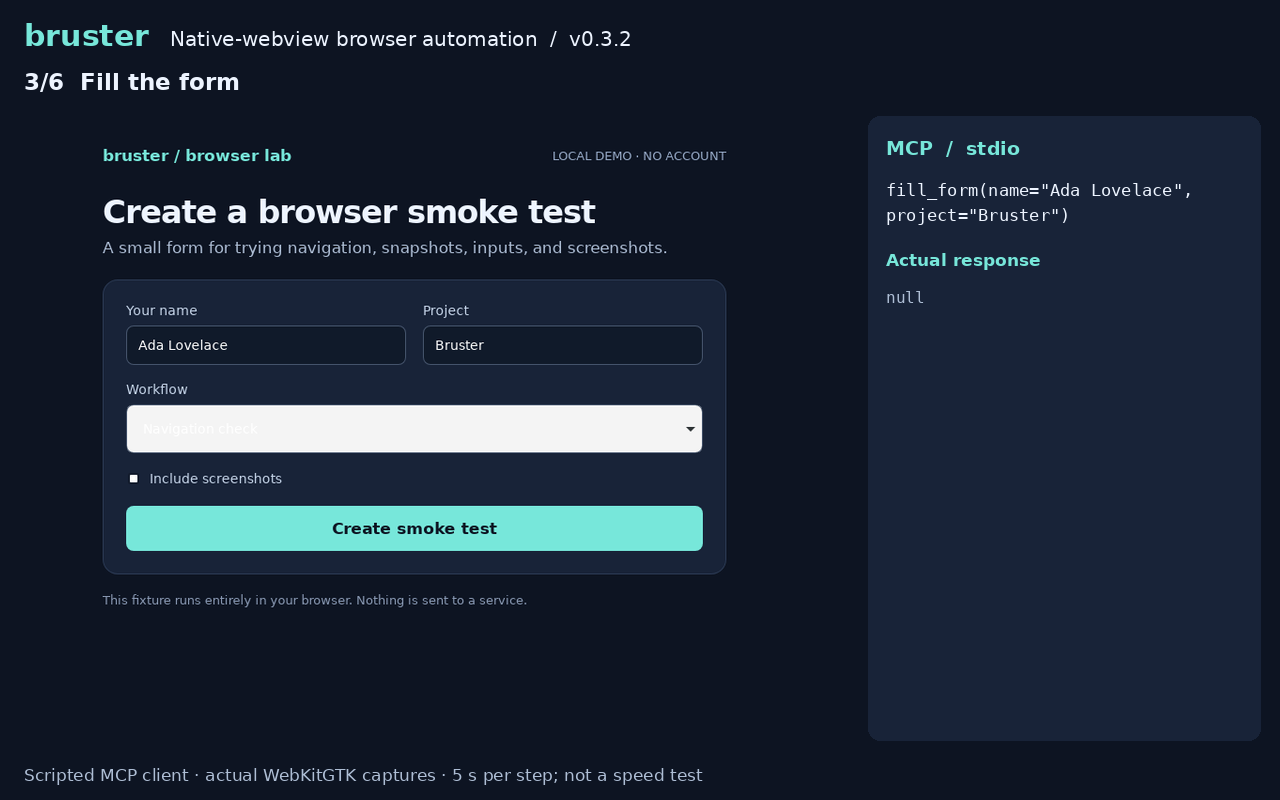
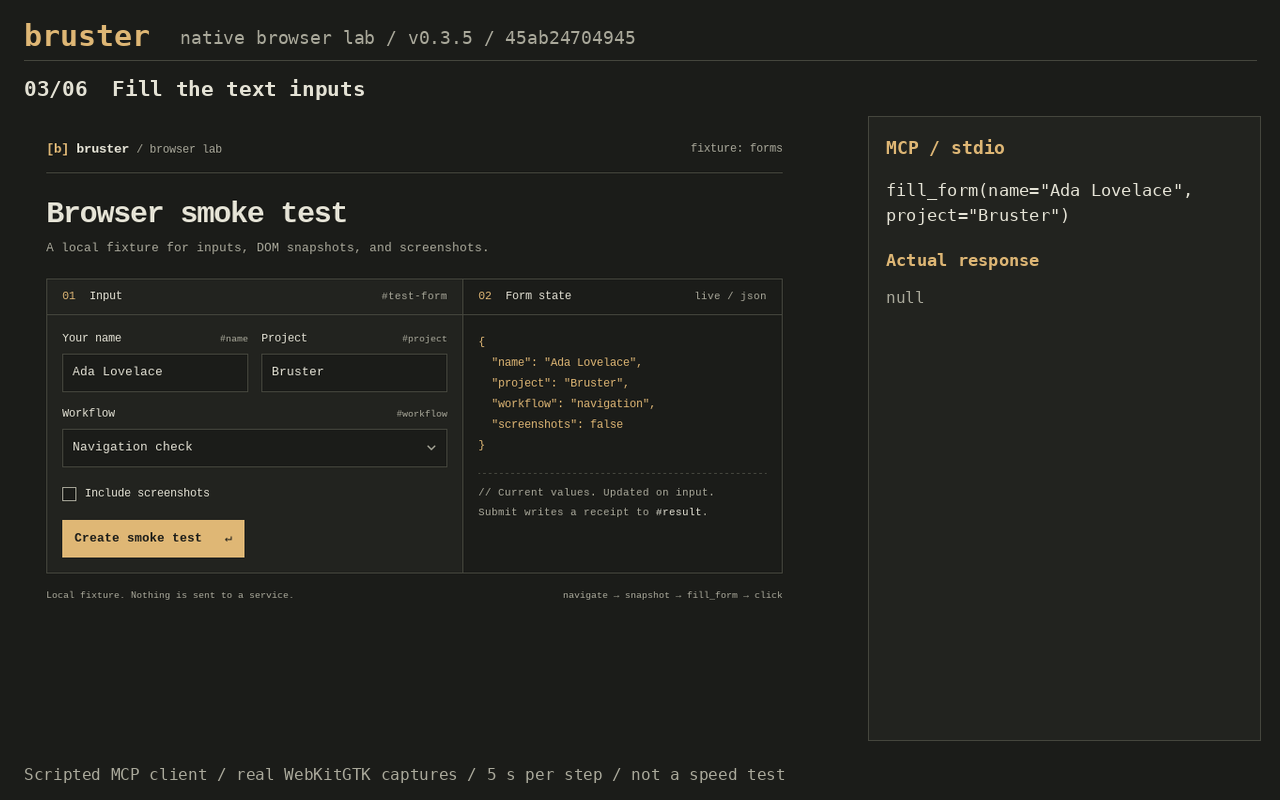
Refresh the README demo recording from the tested main build

diff --git a/launch/README.md b/launch/README.md
@@ -9,20 +9,23 @@ MCP Registry name: `io.github.aliilyas/bruster`
 
 ## Media
 
-- [30-second MP4](https://github.com/aliilyas/bruster/releases/download/v0.3.2/bruster-mcp-demo.mp4)
 - [Animated demo](assets/demo/demo.gif)
 - [Final screenshot](assets/demo/frame-06.png)
 - [MCP transcript](assets/demo/transcript.json) (image payloads replaced by hashes and byte counts)
+- [Original v0.3.2 MP4](https://github.com/aliilyas/bruster/releases/download/v0.3.2/bruster-mcp-demo.mp4)
 - [Benchmark chart](assets/benchmark.png) and [the JSON it was generated from](assets/benchmark-data.json)
 
-The demo uses the published **v0.3.2** native executable through its MCP bundle
-on Ubuntu with WebKitGTK/Xvfb. A scripted client navigates a local fixture,
-inspects it, fills fields, checks an option, submits, verifies the resulting
-text, and receives PNG image content. Each actual capture is held for five
-seconds. This is a reproducible protocol demo, not an LLM recording or a timing
-benchmark.
+The GIF and PNG frames use Bruster built from source commit
+[`45ab24704945`](https://github.com/aliilyas/bruster/commit/45ab247049458deabda7c7d4795281184af71119)
+(v0.3.5, including the performance changes merged in `0c2bbcb`) on Ubuntu 24.04 with
+WebKitGTK/Xvfb. A scripted MCP client navigates the local fixture, inspects its
+controls, fills fields, checks an option, verifies the live JSON state, submits,
+checks the resulting text, and receives PNG image content. Each actual capture
+is held for five seconds. This is a reproducible protocol demo, not an LLM
+recording or a timing benchmark. The transcript records the source revision,
+capture timestamp, and fixture hash.
 
-Final media capture: [run 40687424772](https://github.com/aliilyas/bruster/actions/runs/40687424772).
+Native tests and media capture: [run 41922741793](https://github.com/aliilyas/bruster/actions/runs/41922741793).
 
 ## Try the demo
 
@@ -82,17 +85,21 @@ you want the native browser window on screen.
 
 ### Scripted capture
 
-From a checkout, with Pillow installed and Bruster on PATH:
+From a checkout, with Rust, the native build dependencies, and Pillow installed:
 
 ```sh
-python3 scripts/launch_media.py demo --output /tmp/opencode/bruster-demo bruster
+cargo build --release --locked
+python3 scripts/launch_media.py demo --output /tmp/opencode/bruster-demo \
+  --source-revision "$(git rev-parse HEAD)" target/release/bruster
 ```
 
 On a Linux server, prefix this with `xvfb-run -a`. Optional MP4 export needs
 `ffmpeg` or the `imageio-ffmpeg` Python package. The script starts its own local
 fixture server and temporary browser profile; no model or API key is involved.
-The [launch-assets workflow](../.github/workflows/launch-assets.yml) performs the
-same capture and exercises the packaged MCP launcher.
+The [launch-assets workflow](../.github/workflows/launch-assets.yml) builds and
+tests the selected checkout before performing the same capture. Select
+`source: release` and a published `version` to exercise the packaged MCP launcher
+instead.
 
 ## Benchmark chart
 
@@ -108,8 +115,8 @@ show medians. PSS includes browser helper processes and Bruster's Xvfb server.
 The chart includes large-page navigation, where Bruster does not beat every
 configuration. See the complete report for extraction, variability, installed
 runtime files, and fault probes; these are workload-specific results across
-different browser engines. The benchmark commit is newer than the v0.3.2 demo
-binary.
+different browser engines. The chart retains its original benchmark source;
+the refreshed demo uses the source revision listed above.
 
 Regenerate the chart from its checked-in data:
 

diff --git a/launch/STATUS.md b/launch/STATUS.md
@@ -1,6 +1,6 @@
 # Promotion status
 
-Last updated: 2026-10-28.
+Last updated: 2026-11-04.
 
 | Channel | Status | Link / next step |
 |---|---|---|
@@ -15,6 +15,7 @@ Last updated: 2026-10-28.
 | r/rust | Technical outline prepared | [Implementation sources](../src/) |
 | This Week in Rust | Needs a public human-authored technical article; project-update PRs are closed | [Contributor rules](https://github.com/rust-lang/this-week-in-rust#llm-written-articles) |
 
-The demo and benchmark chart describe different builds: v0.3.2 for the demo,
+The demo and benchmark chart describe different builds: source commit
+`45ab24704945` for the refreshed demo,
 commit `852486658ea5` for benchmark run #12. The benchmark chart retains its
 source data and methodology so posts can cite the measured configuration.

diff --git a/README.md b/README.md
@@ -36,7 +36,7 @@ For AI tools: [documentation index](https://aliilyas.github.io/bruster/llms.txt)
 
 ![Bruster filling a form and taking a screenshot through MCP](launch/assets/demo/demo.gif)
 
-Scripted MCP session. [Try the demo](launch/README.md#try-the-demo).
+Scripted MCP session with real WebKitGTK captures. [Try the demo](launch/README.md#try-the-demo).
 
 ## Install
 
